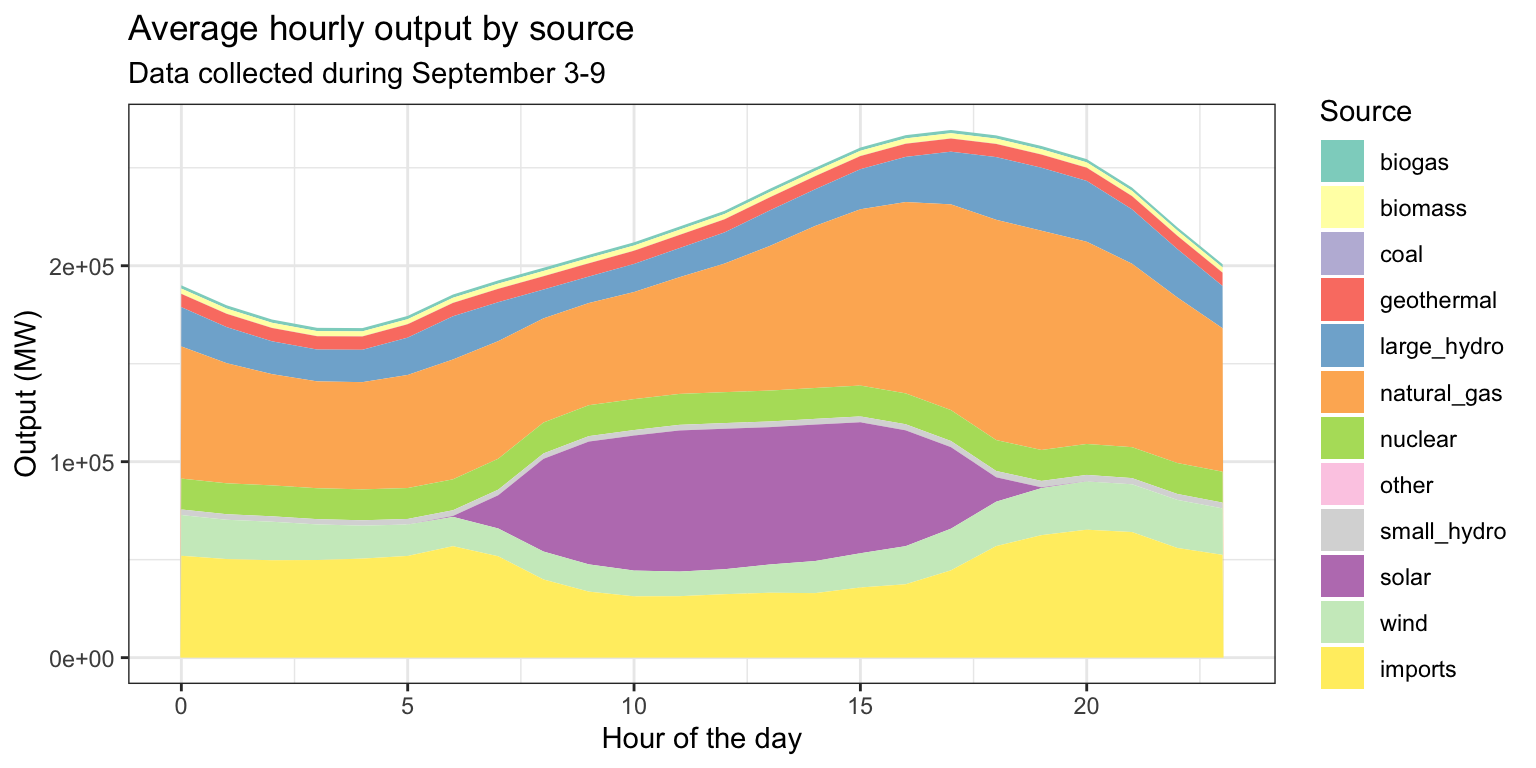
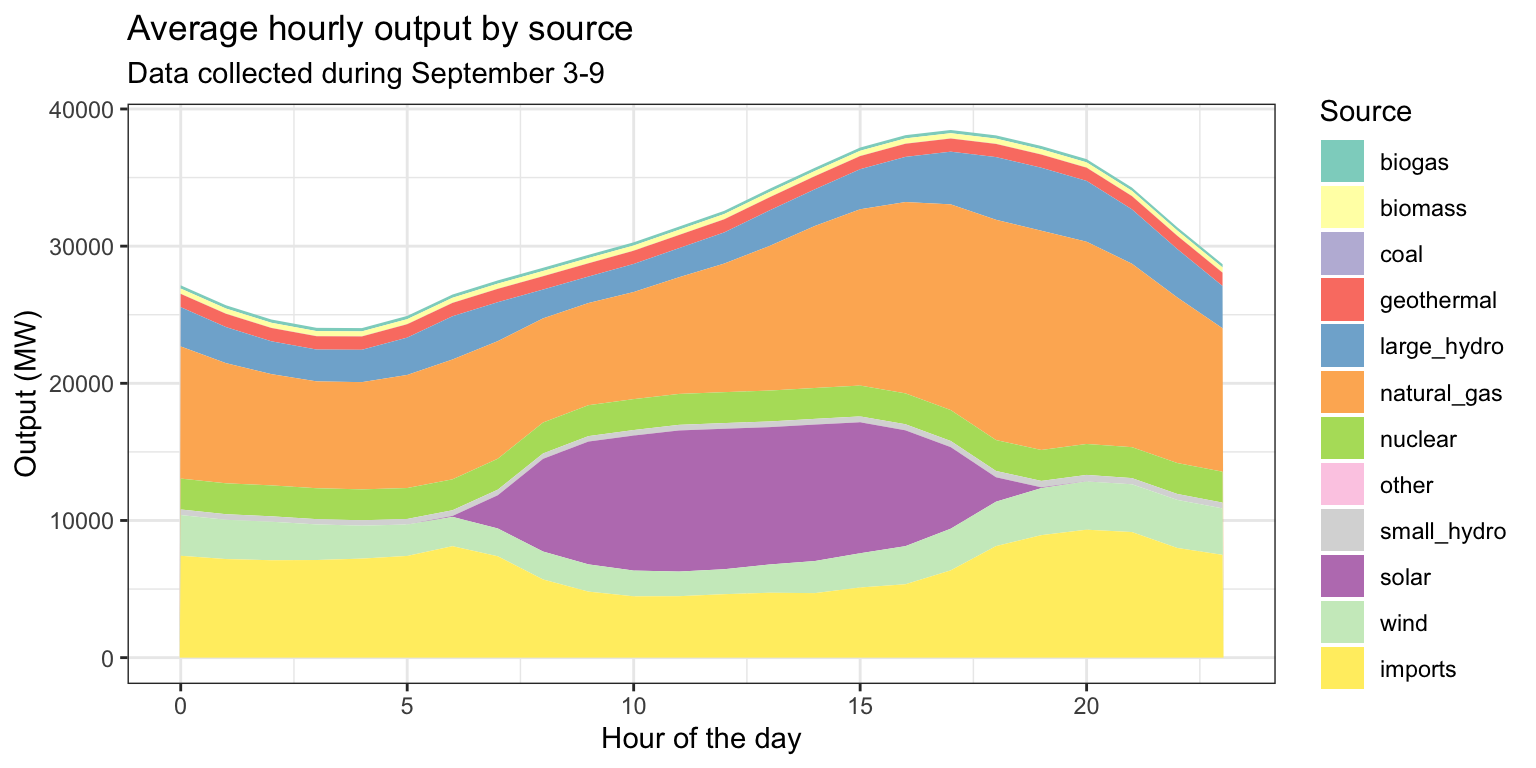
updated R7 slides

diff --git a/lectureslides/R7_slides.html b/lectureslides/R7_slides.html
@@ -1295,7 +1295,7 @@ class="slide level2">
 <div class="sourceCode" id="cb38"><pre class="sourceCode r"><code class="sourceCode r"><span id="cb38-1"><a href="#cb38-1" aria-hidden="true" tabindex="-1"></a>ex5 <span class="ot">&lt;-</span> long_merged_energy <span class="sc">%&gt;%</span> </span>
 <span id="cb38-2"><a href="#cb38-2" aria-hidden="true" tabindex="-1"></a>  <span class="fu">mutate</span>(<span class="at">hour=</span>lubridate<span class="sc">::</span><span class="fu">hour</span>(datetime)) <span class="sc">%&gt;%</span> </span>
 <span id="cb38-3"><a href="#cb38-3" aria-hidden="true" tabindex="-1"></a>  <span class="fu">group_by</span>(hour, source) <span class="sc">%&gt;%</span> </span>
-<span id="cb38-4"><a href="#cb38-4" aria-hidden="true" tabindex="-1"></a>  <span class="fu">summarize</span>(<span class="at">output=</span><span class="fu">sum</span>(output)) <span class="sc">%&gt;%</span></span>
+<span id="cb38-4"><a href="#cb38-4" aria-hidden="true" tabindex="-1"></a>  <span class="fu">summarize</span>(<span class="at">output=</span><span class="fu">mean</span>(output)) <span class="sc">%&gt;%</span></span>
 <span id="cb38-5"><a href="#cb38-5" aria-hidden="true" tabindex="-1"></a>  <span class="fu">ggplot</span>() <span class="sc">+</span> </span>
 <span id="cb38-6"><a href="#cb38-6" aria-hidden="true" tabindex="-1"></a>  <span class="fu">geom_area</span>(<span class="fu">aes</span>(<span class="at">x=</span>hour, <span class="at">y=</span>output, <span class="at">fill=</span><span class="fu">factor</span>(source))) <span class="sc">+</span> </span>
 <span id="cb38-7"><a href="#cb38-7" aria-hidden="true" tabindex="-1"></a>  <span class="fu">scale_fill_brewer</span>(<span class="at">palette=</span><span class="st">&quot;Set3&quot;</span>, <span class="at">name=</span><span class="st">&quot;Source&quot;</span>) <span class="sc">+</span> </span>
